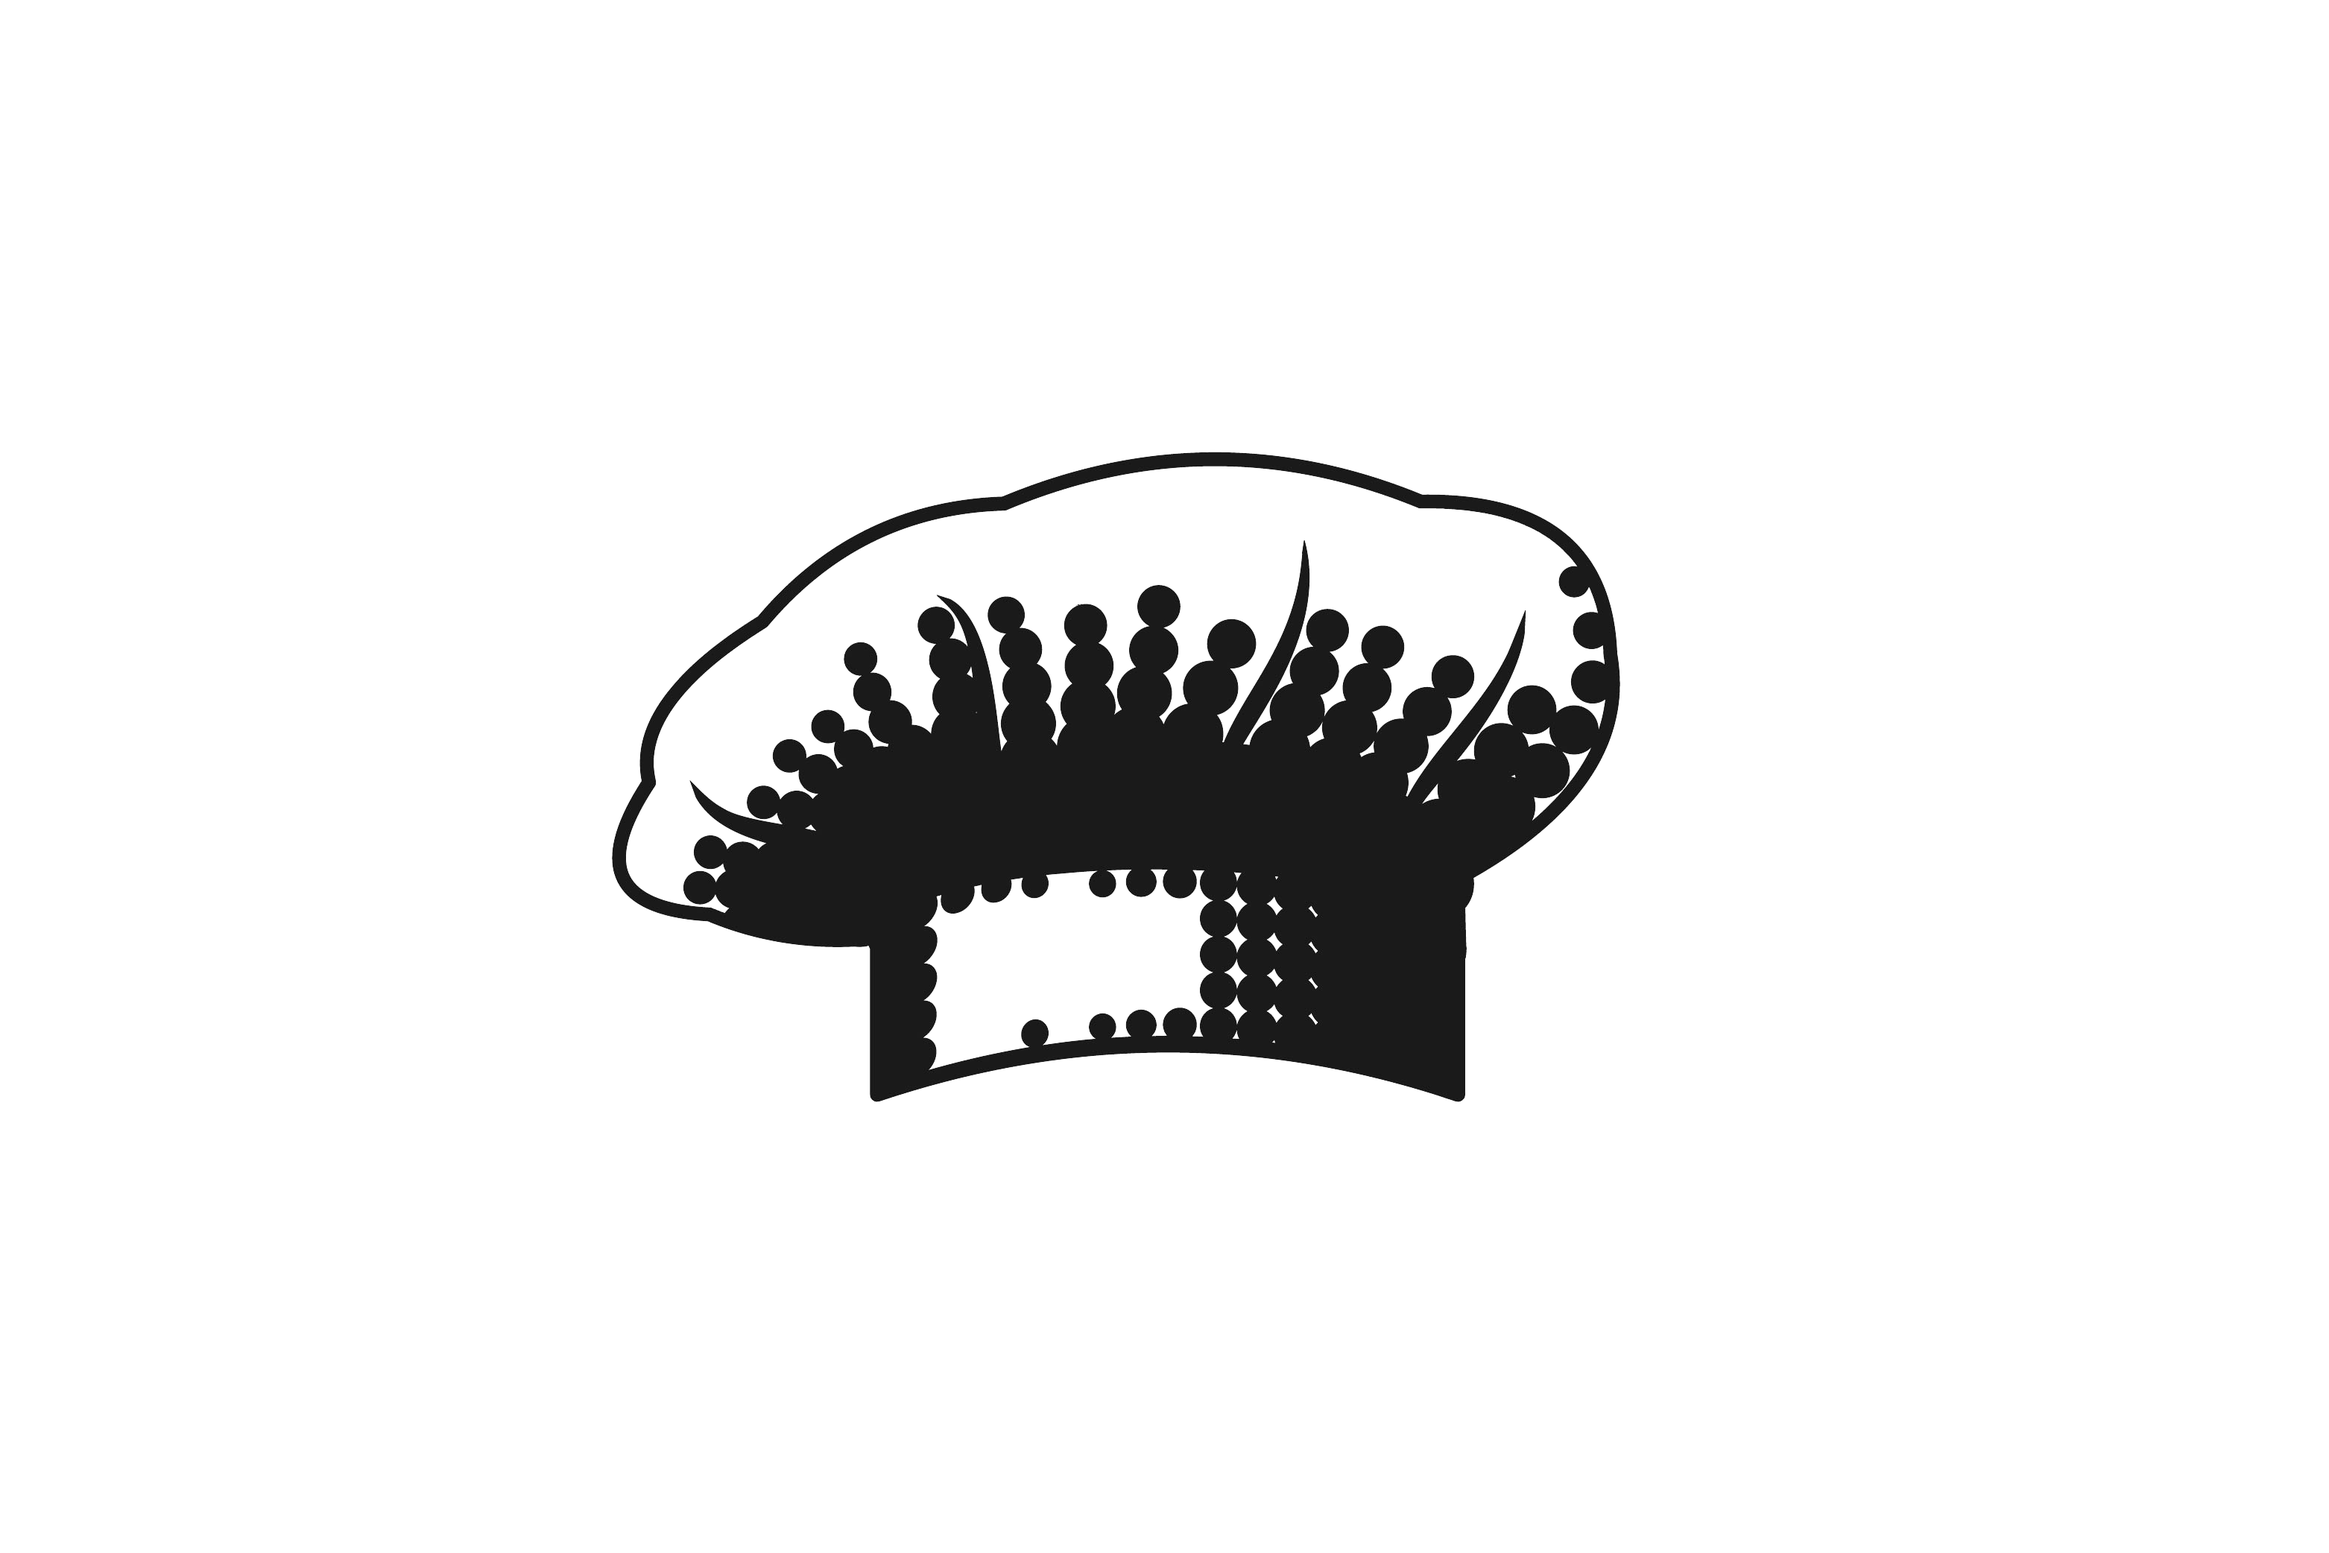
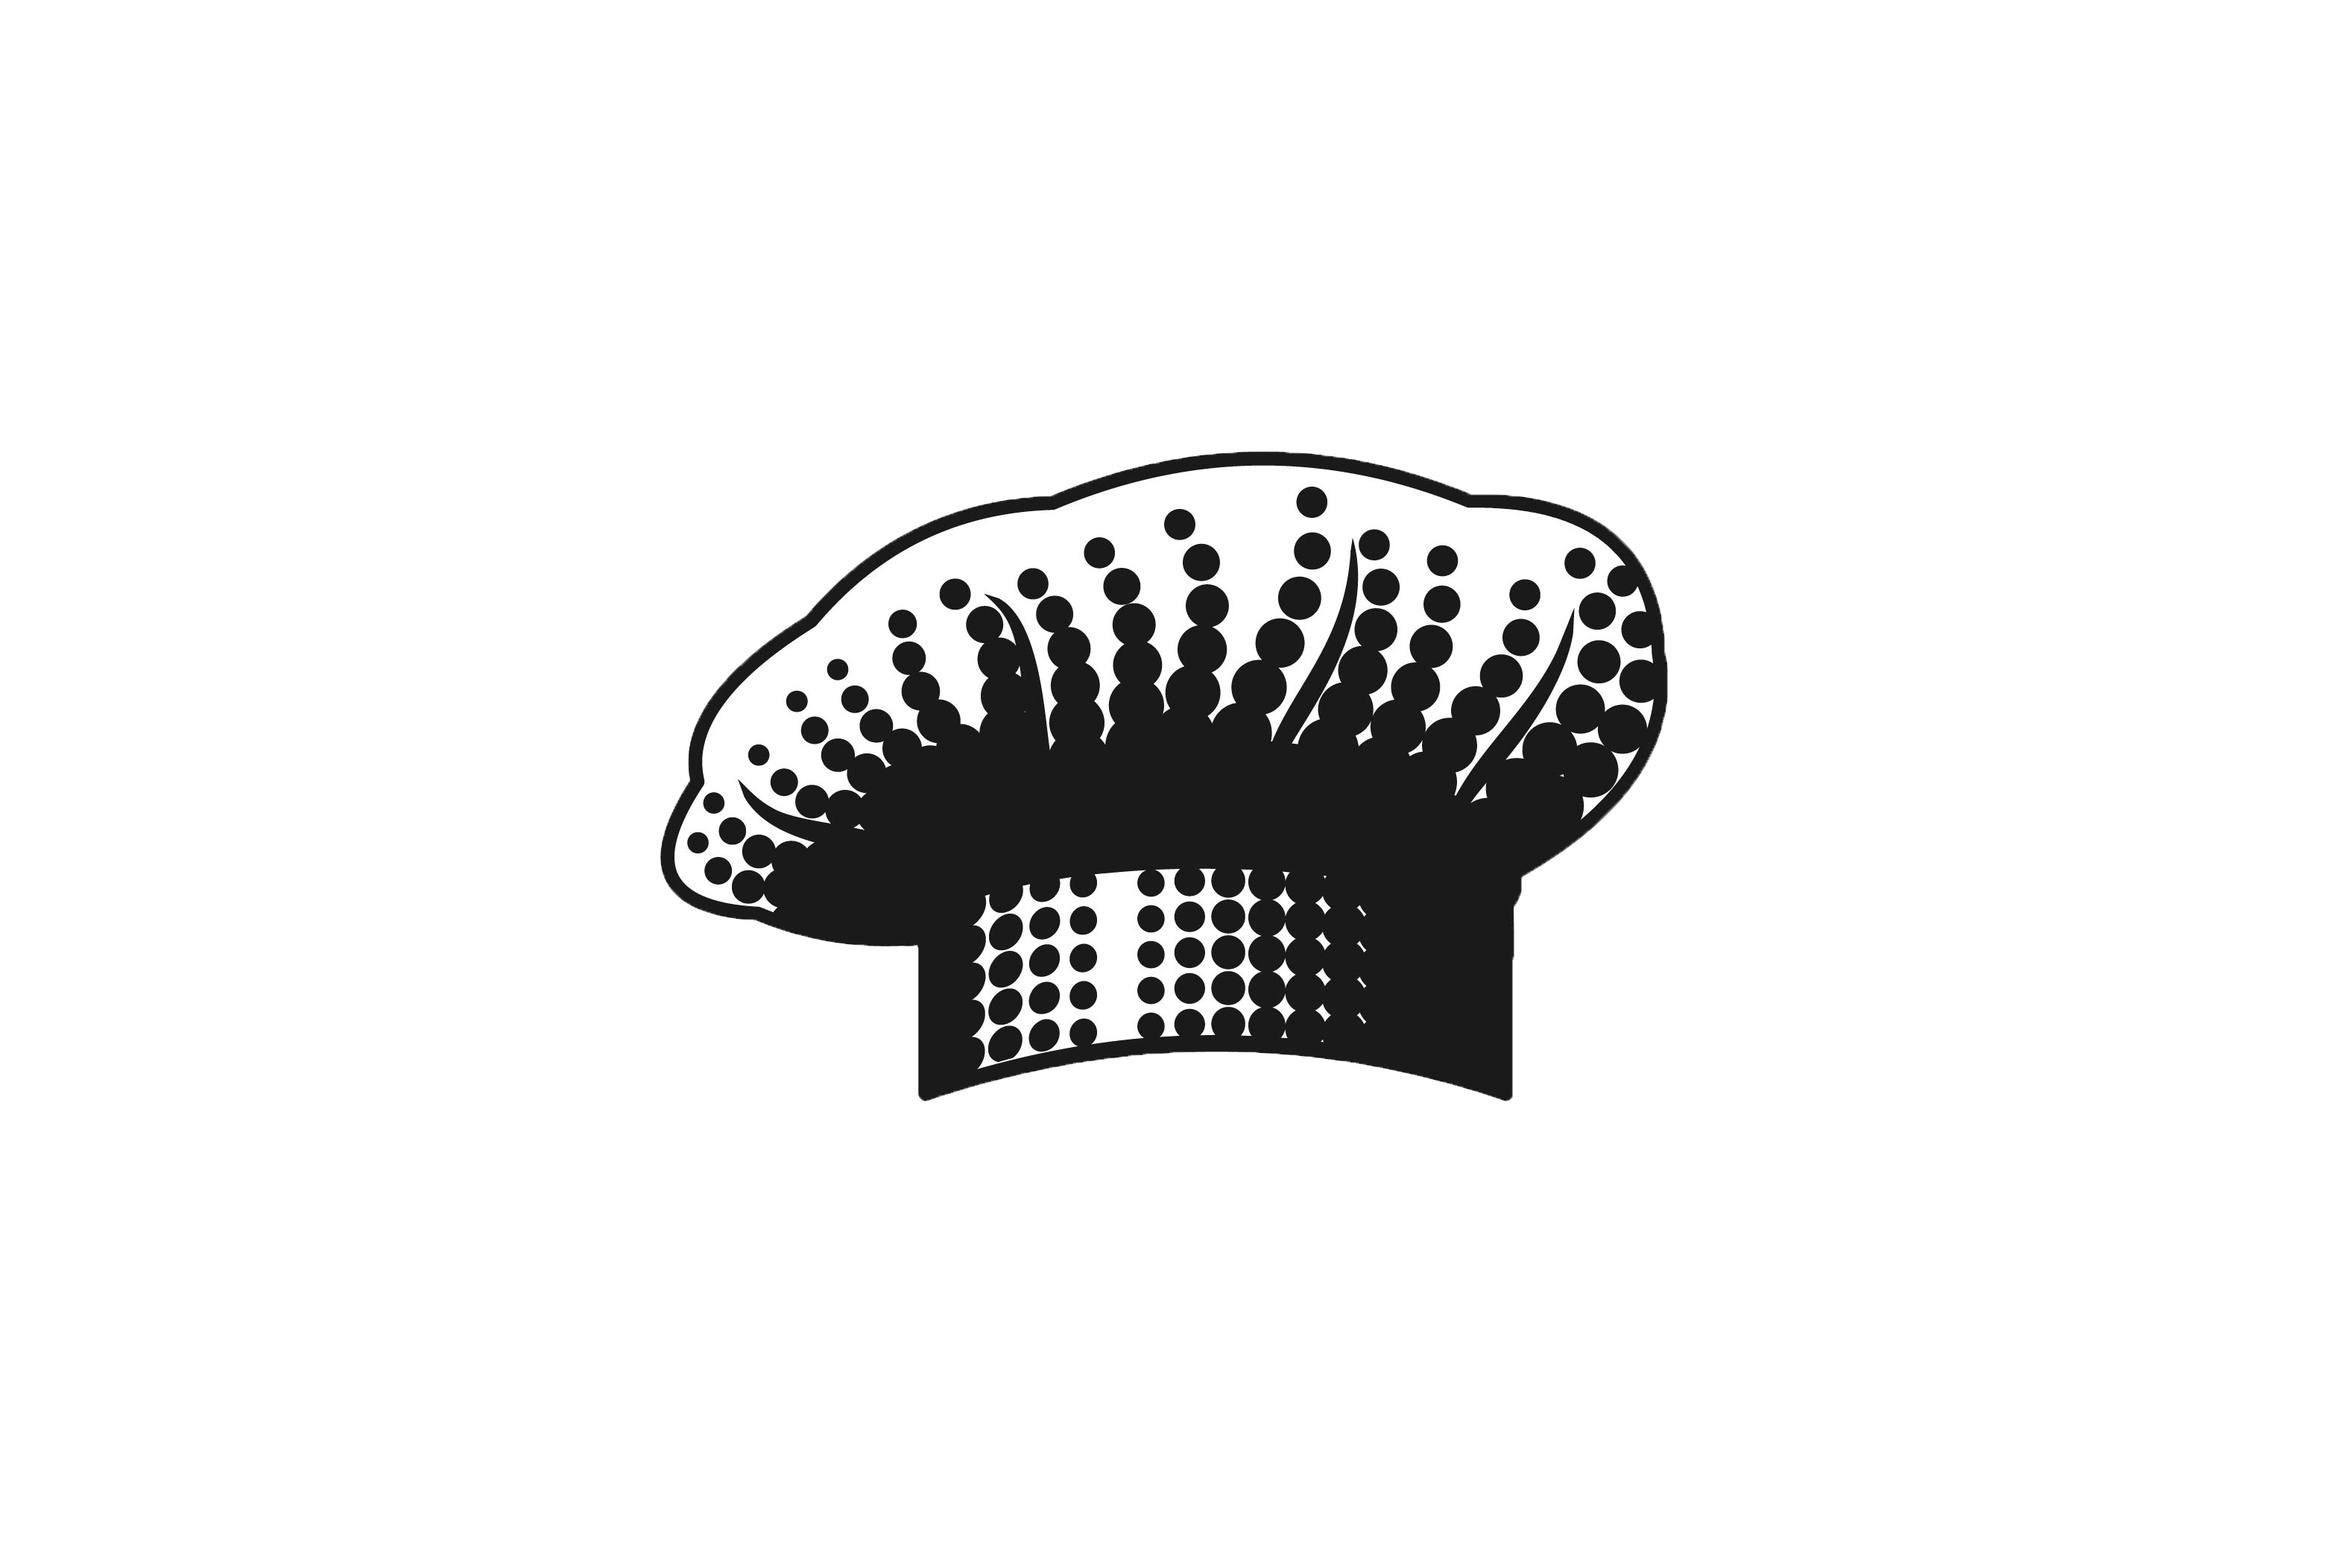
changed the layout of the page

Changed region(s): [[0.2483, 0.2807, 0.7139, 0.7174]]

diff --git a/index.html b/index.html
@@ -49,20 +49,17 @@
             <ul class="site-nav-list">
                 <li class="barber">
                     <a href="barberpage.html">
-                        <img class="barber-logo" src="images/barber.jpg" alt="barber-logo">
+                        <img class="barber-logo" src="images/barber.png" alt="barber-logo">
                     </a>
                 </li>
                 <li class="chef">
                     <a href="chefpage.html">
-                        <img class="chef-logo" src="images/chefhat.jpg" alt="chef-logo">
+                        <img class="chef-logo" src="images/chefhat-1.png" alt="chef-logo">
                     </a>
                 </li>
             </ul>
         </nav>
-        <div class="event-section">
-            <h2 class="event-header">Events</h2>
-            <article class="event-content">Lorem ipsum dolor sit amet, consectetur adipisicing elit. Dolorem quia quo illum mollitia deleniti, sit labore optio aperiam molestiae dolores quas cupiditate libero nemo laudantium vitae impedit numquam quidem. Reprehenderit.</article>
-        </div>
+        
 
 
         <script src="main.js"></script>

diff --git a/css/styles.css b/css/styles.css
@@ -68,9 +68,7 @@ body {
     color: red;
 }
 
-.first-nav-div {
-    background-color: 
-}
+
 
 .main-nav {
     display: inline;
@@ -88,7 +86,7 @@ body {
 .site-nav-list {
     display: grid;
     grid-template-columns: 1fr 1fr 1fr;
-    background-color: #eee;
+    background-color: white;
     list-style: none;
     margin: auto; 
 
@@ -97,9 +95,6 @@ body {
 .chef-logo {
     width: 50%;
     height: auto;
-    border-style: solid;
-    border-width: 3px;
-    border-color: blue;
     margin: 25% 25%;
 }
 
